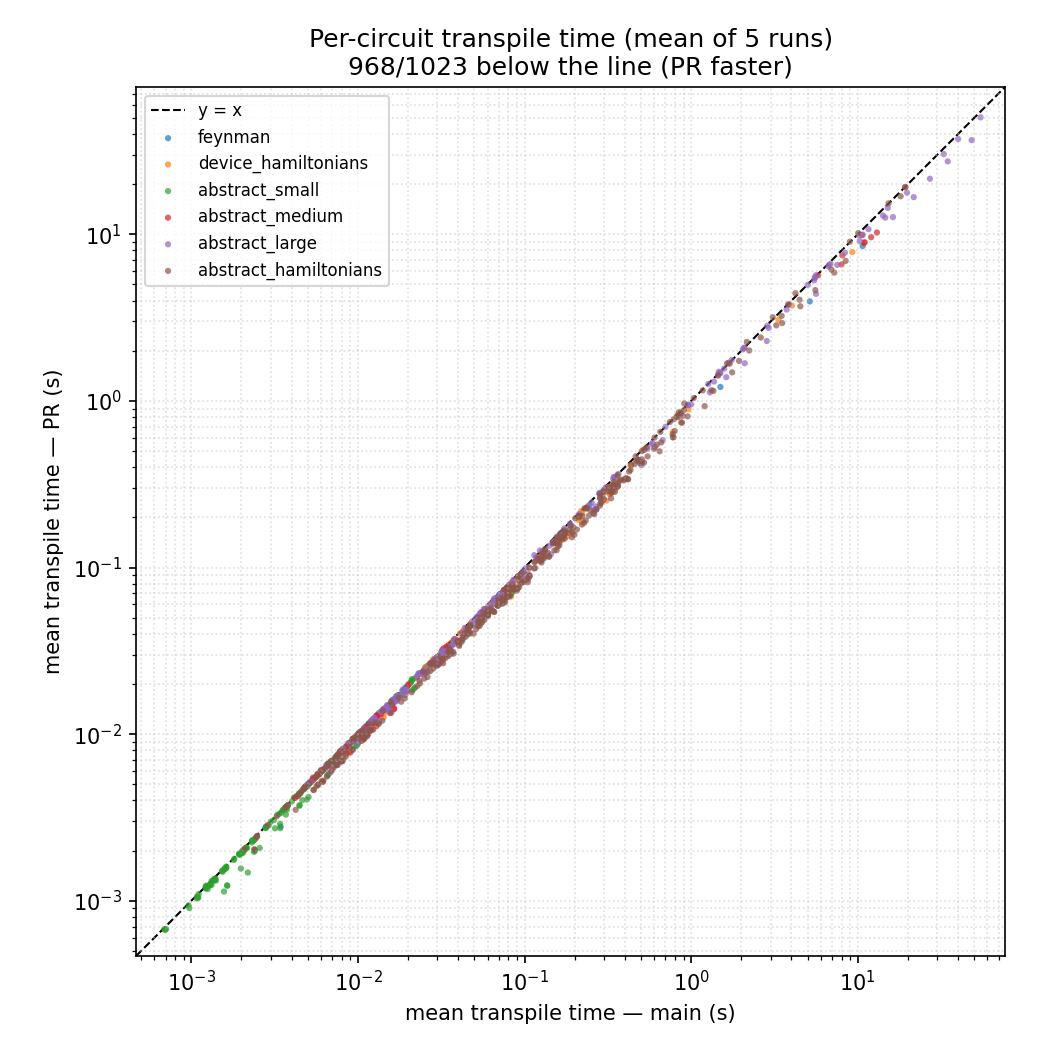
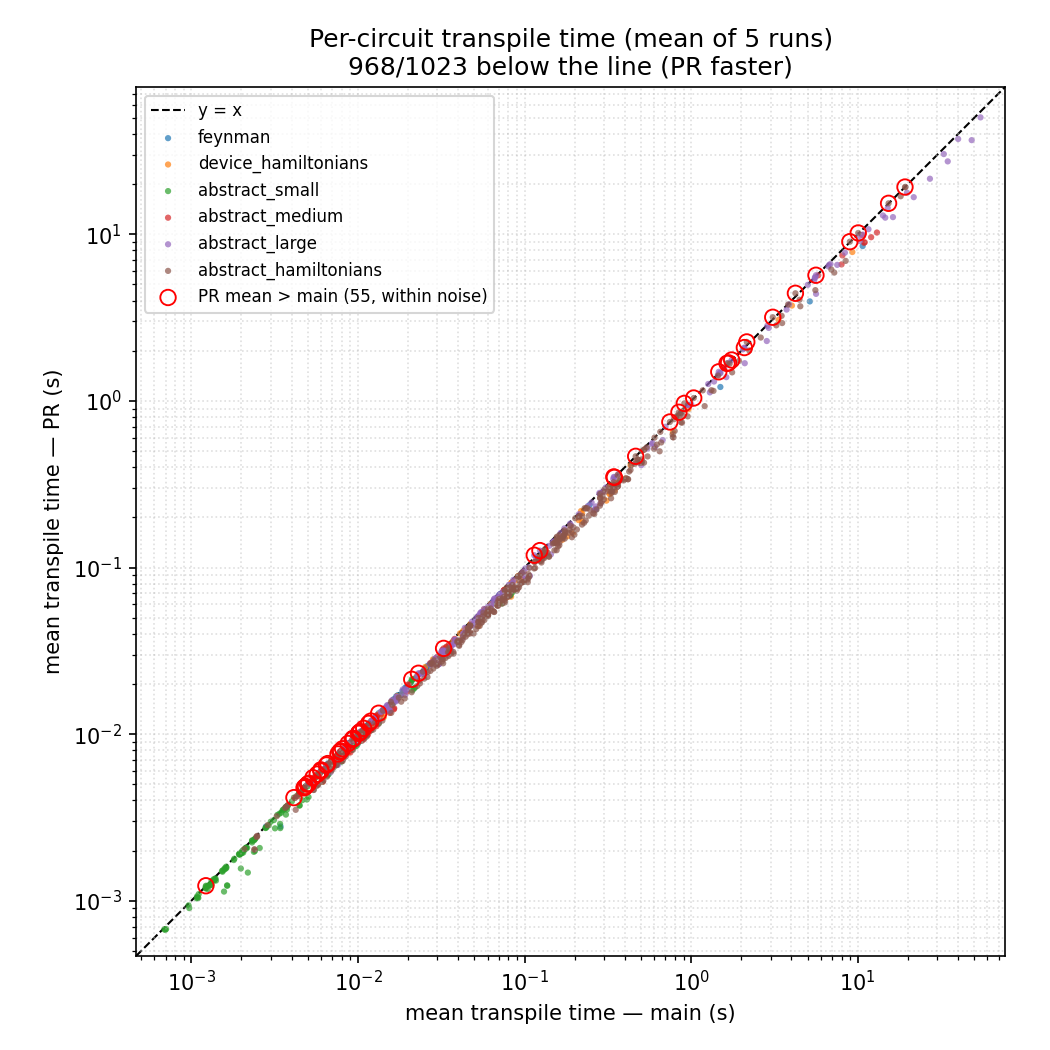
pr16157_rebased: red-ring PR-slower runtime points; expand Summary + Details
- runtime_scatter: red-ring the 55 within-noise PR>main points
- Summary: note the noise on those points; mention 1Q variation under output-unchanged
- Details: code snippets for time / gate-count / depth / iteration-count capture,
  and the speedup equations (sum-weighted total + savers/unchanged per-circuit means)

diff --git a/investigation/outputs/pr16157_rebased/scripts/plot_pr_charts.py b/investigation/outputs/pr16157_rebased/scripts/plot_pr_charts.py
@@ -101,6 +101,12 @@ for g in GROUPS:
     if pts:
         ax.scatter([a for a, _ in pts], [b for _, b in pts], s=9, alpha=0.7,
                    color=COLOR[g], edgecolor="none", label=g)
+# red-ring the circuits whose PR mean exceeds main (all within run-to-run noise)
+above = [(statistics.fmean(c["mw"]), statistics.fmean(c["pw"]))
+         for _, c in circ.items() if statistics.fmean(c["pw"]) > statistics.fmean(c["mw"])]
+ax.scatter([a for a, _ in above], [b for _, b in above], s=55, facecolors="none",
+           edgecolors="red", linewidths=0.9, zorder=6,
+           label=f"PR mean > main ({len(above)}, within noise)")
 ax.set_xscale("log"); ax.set_yscale("log"); ax.set_xlim(lo2, hi2); ax.set_ylim(lo2, hi2)
 ax.set_aspect("equal"); ax.set_xlabel("mean transpile time — main (s)")
 ax.set_ylabel("mean transpile time — PR (s)")

diff --git a/investigation/outputs/pr16157_rebased/PR_DESCRIPTION.md b/investigation/outputs/pr16157_rebased/PR_DESCRIPTION.md
@@ -58,6 +58,8 @@ abstract Hamiltonians: 249/400).
 
 **Output is unchanged.** Across all 1,023 circuits and all 5 runs, **2Q-gate counts and
 circuit depths are bit-identical** between `main` and the PR — every point on the diagonal.
+The **1Q-gate count** is identical too, except on four circuits affected by a pre-existing,
+PR-independent tie-break non-determinism (discussed in **Issues** below).
 
 ![2Q gate count, main vs PR — every point on the diagonal](https://raw.githubusercontent.com/hfwen0502/qiskit/pass-manager-investigation/investigation/outputs/pr16157_rebased/images/scatter_2q.png)
 
@@ -65,7 +67,11 @@ circuit depths are bit-identical** between `main` and the PR — every point on 
 
 **Compilation is faster.** Total suite compile time drops **−10.6% ± 0.3%** (5 runs), and
 the PR is **faster in every group in every run**. Per group the reduction ranges **−6.7%
-to −20.1%**.
+to −20.1%**. A few circuits (**red rings** in the per-circuit plot) have PR's *mean*
+slightly above main's — these are **within run-to-run noise**: on those circuits `main`
+happened to have higher variance (a couple unusually fast runs pulling its mean down)
+while the PR was *tighter* (lower stdev), and the gap is smaller than `main`'s own spread.
+None is a real slowdown.
 
 ![Per-circuit transpile time (mean of 5 runs), main vs PR](https://raw.githubusercontent.com/hfwen0502/qiskit/pass-manager-investigation/investigation/outputs/pr16157_rebased/images/runtime_scatter.png)
 
@@ -76,23 +82,80 @@ suite compile time by 10.6%** — and the ~57% of circuits whose iteration count
 show **no slowdown** (mean Δ −2.6%, i.e. within run-to-run noise, if anything marginally
 faster), confirming the added signal checks are cheap.
 
-## Details — reproducing the data
+## Details — how the metrics are captured
 
-All raw data, scripts, and plots are in this directory (see `REPRODUCE.md`):
+All raw data, scripts, and plots are in this directory (see `REPRODUCE.md`). The harness
+runs `main` (NUMA socket 0) and the PR (socket 1) **concurrently** per group via
+`scripts/run_group.sh`, repeated 5× over the full suite by `scripts/overnight_suite.sh`;
+each run writes pytest-benchmark `main.json` / `pr.json`.
 
-- **Run / measure:** `scripts/run_group.sh` runs one group with `main` on NUMA socket 0
-  and the PR on socket 1 concurrently; `scripts/run_all.sh` / the overnight harness repeat
-  the full suite 5×. Per-group `main.json` / `pr.json` are pytest-benchmark output.
-- **Iteration counts:** `scripts/iter_sweep_full.py` + `iter_sweep_ham.py` count loop
-  iterations per circuit via a pass-execution callback (one `CommutativeCancellation`
-  execution = one loop iteration); `scripts/iter_compare.py` produces the main-vs-PR
-  distribution.
-- **Benchpress recording patch:** `scripts/benchpress_patch.diff` adds total/1Q gate
-  counts and 1Q/total depths to the recorder (benchpress records only the 2Q count by
-  default) and seeds the abstract-group backend.
-- **Plots:** `scripts/plot_pr_charts.py` regenerates every figure from the per-circuit TSVs.
-- **The change itself:** `scripts/000{1,2,3}-*.patch` (the three commits, applied on
-  current `main`).
+**Transpile time** is the wall-clock of the single `pm.run(circuit)` call, timed by
+pytest-benchmark (this is the benchpress transpile test — `scripts/run_group.sh` invokes it):
+
+```python
+pm = generate_preset_pass_manager(optimization_level=2, backend=backend)
+@benchmark                       # pytest-benchmark times exactly this call
+def result():
+    return pm.run(circuit)
+```
+
+**Gate counts and depth** are recorded from the transpiled circuit by benchpress's output
+recorder. Benchpress only records the 2Q count by default, so `scripts/benchpress_patch.diff`
+extends it to 1Q / total counts and 1Q / total depth:
+
+```python
+ops = circuit.count_ops()
+benchmark.extra_info["output_gate_count_2q"]    = ops.get(two_q_gate, 0)
+benchmark.extra_info["output_gate_count_1q"]    = sum(ops.values()) - ops.get(two_q_gate, 0)
+benchmark.extra_info["output_gate_count_total"] = sum(ops.values())
+benchmark.extra_info["output_depth_2q"]    = circuit.depth(lambda i: i.operation.name == two_q_gate)
+benchmark.extra_info["output_depth_1q"]    = circuit.depth(lambda i: len(i.qubits) == 1)
+benchmark.extra_info["output_depth_total"] = circuit.depth()
+```
+
+**Loop-iteration count** is captured non-invasively with a `pm.run` callback that counts
+executions of a loop-body pass — one `CommutativeCancellation` execution = one Level-2
+optimization-loop iteration (`scripts/iter_sweep_full.py`, `iter_sweep_ham.py`):
+
+```python
+pm = generate_preset_pass_manager(2, backend, seed_transpiler=1)
+n = 0
+def callback(pass_, **_):        # called once per pass execution
+    nonlocal n
+    if type(pass_).__name__ == "CommutativeCancellation":
+        n += 1
+pm.run(circuit, callback=callback)   # n == number of loop iterations
+```
+
+`scripts/iter_compare.py` produces the main-vs-PR iteration distribution; `scripts/plot_pr_charts.py`
+and `scripts/plot_iter_delta.py` regenerate every figure from the per-circuit TSVs
+(`overnight_periter.tsv`, `iters_main_full.tsv`, `iters_pr_full.tsv`). The change itself is
+`scripts/000{1,2,3}-*.patch` (the three commits on current `main`).
+
+### How the speedup numbers are computed
+
+Let `t(c)` be the mean `pm.run` wall-clock over the 5 runs for circuit `c`. The headline
+(per group, and overall) is the **wall-clock-weighted total**, summed over *all* `N`
+circuits in the set — nothing is excluded:
+
+```
+speedup = ( Σ_c t_PR(c) − Σ_c t_main(c) ) / Σ_c t_main(c)
+```
+
+All circuits count, but the ~57% with unchanged iteration count have `t_PR(c) ≈ t_main(c)`
+so they contribute ≈0 to the numerator; the savers (mostly the large circuits) drive the
+reduction. This is the honest "total time to transpile the suite" number: **−10.6% ± 0.3%**.
+
+To separate *effect size* from *coverage*, we also report the unweighted per-circuit mean
+of `(t_PR(c) − t_main(c)) / t_main(c)`:
+
+```
+savers (one fewer iteration):    mean −12.7%  (median −13.5%)   ← effect size where it acts
+unchanged-iteration circuits:    mean  −2.6%                    ← ≈0, i.e. no slowdown
+```
+
+i.e. **the PR helps ~43% of circuits by ~13% each, which cuts total suite compile time by
+10.6%**, and the rest are not slowed.
 
 ## Issues — pre-existing 1Q non-determinism (not introduced here)
 
